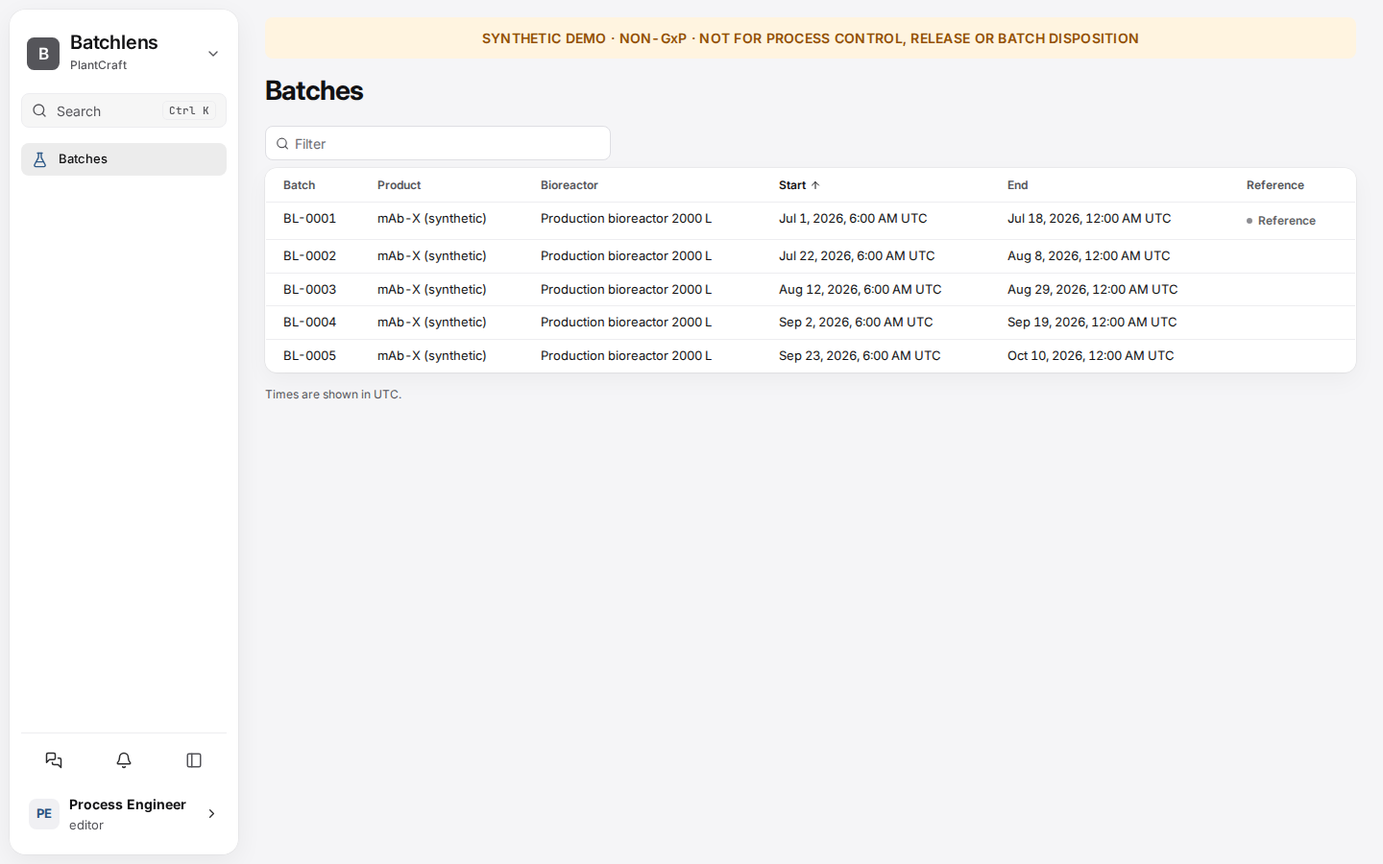
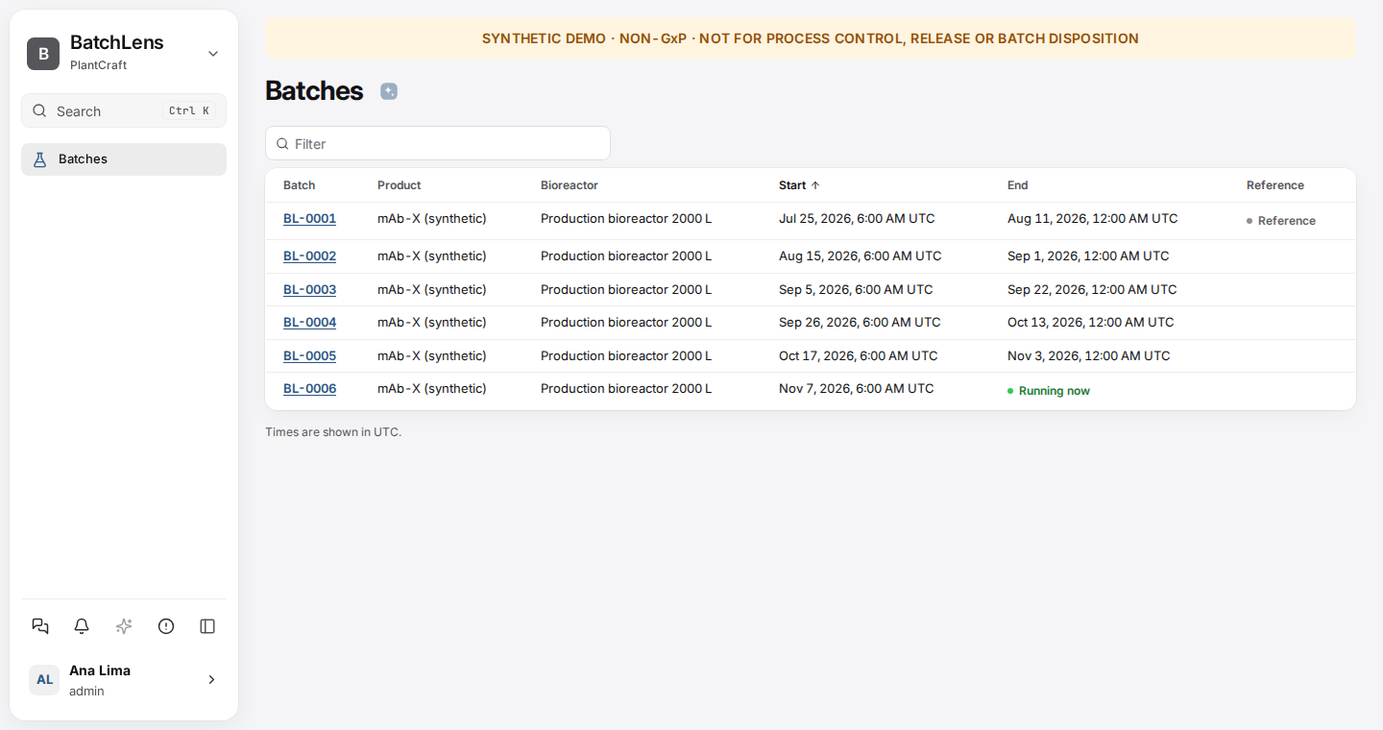
batchlens: bring the documents up to date for publication
The documents described five finished batches and an app on its own;
the demo is now a live plant inside the suite. The status page loses
its working notes, the roadmap takes the next tasks, and the gaps say
what the suite's modules do not show yet.

diff --git a/docs/demo.md b/docs/demo.md
@@ -1,9 +1,18 @@
 # The demo
 
-Five synthetic batches of `mAb-X (synthetic)`, run one after another on the same 2,000 L
-bioreactor, each followed by harvest and one aggregated Protein A capture step. Everything is
-made by `src/batchlens/demo/generator.py` from fixed seeds: the same output on every run and
-machine. **All of it is illustrative** ([scientific-assumptions.md](scientific-assumptions.md)).
+Six batches of `mAb-X (synthetic)`, run one after another on the same 2,000 L bioreactor. Five
+are finished, each followed by harvest and the purification train; the sixth is running when
+the demo starts. Everything is made by `src/batchlens/demo/generator.py` from fixed seeds: the
+same values on every run and machine. **All of it is illustrative**
+([scientific-assumptions.md](scientific-assumptions.md)).
+
+**Two campaigns, one set of values.** The tests, the benchmark and the tables below use the
+fixed campaign: five batches from 2026-07-01, three weeks apart. `tools/run_demo.sh` uses the
+live campaign: the same five moved in time by whole days so they end before a sixth,
+`BL-0006`, whose culture began nine days before the day the demo first starts. Moving a batch
+changes none of its values, so every number below holds in the demo; only the dates differ.
+The dates are set on the first start and kept, so a demo left running moves on through the
+live batch; `--reset` sets them again from today.
 
 ## Run it
 
@@ -24,7 +33,8 @@ tools/run_demo.sh             # add --reset for a fresh PlantCraft workspace
 ```
 
 It starts PlantCraft's local demo, BatchLens and the suite's modules that are installed, loads
-the five batches, writes the synthetic plant and imports it into PlantCraft. Open
+the batches, writes the synthetic plant and imports it into PlantCraft, and gives the modules
+something of the plant to show (`tools/seed_suite.py`). Open
 http://127.0.0.1:8088 (no password in the local demo), then BatchLens or a module from the app
 switcher at the top left. Ctrl+C stops everything.
 
@@ -66,9 +76,9 @@ batchlens benchmark --out docs/verification-report.md
 
 ## A five-minute tour
 
-1. **The list.** Five batches, one bioreactor, one after another. `BL-0001` carries the
-   reference mark: the batch the others are compared with. The banner on every page says what
-   this data is.
+1. **The list.** Six batches, one bioreactor, one after another. `BL-0001` carries the
+   reference mark: the batch the others are compared with. `BL-0006` is marked as running. The
+   banner on every page says what this data is.
 2. **`BL-0003`, a culture that fell behind.** Findings: the titer left the reference at
    culture day 7.9, with the sample that showed it, how far below, and that all six later
    samples stayed below. Then what that amounts to: 7,317 g at harvest against 10,170 g. Then
@@ -101,8 +111,21 @@ batchlens benchmark --out docs/verification-report.md
    the original time stays in the list of corrections, and PlantCraft's audit log has the
    change. The hole in the historian is still a hole. (`batchlens seed-demo --reset` puts
    the demo back.)
-8. **How often is it wrong?** [verification-report.md](verification-report.md): the same
-   findings over 380 seeded batches with known faults.
+8. **A batch that is running.** `BL-0006` is in its production culture. The process train
+   shows one step under way and seven not started. The titer finding is already there (it left
+   the reference at culture day 8.0), with the latest sample named as not yet reported, and
+   the consequence at harvest says it cannot be compared yet. Nothing dated later than now is
+   shown: come back in a day and there is one more sample.
+9. **The same plant in the suite's modules.** From the app switcher: in **View**, the
+   dashboard "Bioreactor BR-2001" (the four signals, moving) and the process display "mAb
+   process train" (the train in order, the bioreactor's current values); in **Alarms**, four
+   rules on the bioreactor with illustrative limits; in **Documents**, the verification
+   report, the assumptions and this page, linked to the unit. Historian, Analytics and Models
+   run and hold nothing of this plant yet ([gaps.md](gaps.md)).
+10. **How often is it wrong?** [verification-report.md](verification-report.md): the same
+    findings over 380 seeded batches with known faults.
+
+![The bioreactor's dashboard in PlantCraft View](images/suite/dashboard.png)
 
 ## Inside a live PlantCraft, by hand
 
@@ -151,7 +174,7 @@ API v1; only `tools/run_demo.sh` calls them, never the app.
 | `CH-3001` | Protein A chromatography skid | None |
 | `VI-3101`, `CH-3201`, `CH-3301`, `VF-3401`, `UF-3501` | Viral inactivation vessel, cation- and anion-exchange skids, viral filtration skid, UF/DF skid | None |
 
-The same four signals carry all five batches, so every read is scoped to a phase execution's
+The same four signals carry every batch, so every read is scoped to a phase execution's
 asset and time window. `src/batchlens/demo/plant.py` defines this plant once: the files
 above and the tests' fake PlantCraft are both made from it.
 
@@ -168,6 +191,7 @@ nothing about it.
 | `BL-0003` | 103 | 2026-08-12 06:00 | Reduced culture productivity | qP is multiplied by 0.55 from day 7; glucose +0.8 g/L and lactate rising 0.25 g/L per day from then |
 | `BL-0004` | 104 | 2026-09-02 06:00 | Reduced Protein A recovery | Normal culture; recovery 0.74 instead of 0.92 |
 | `BL-0005` | 105 | 2026-09-23 06:00 | Data problem | A normal culture, recorded badly: sample 9's collection time was keyed in as sample 8's, and the historian kept nothing from culture day 13.4 to the end of the phase |
+| `BL-0006` | 106 | live campaign only: nine days before the first start, 06:00 | Reduced culture productivity, running | qP is multiplied by 0.6 from day 7; generated whole like the others, and shown only up to now |
 
 ## What the app computes for them
 

diff --git a/ROADMAP.md b/ROADMAP.md
@@ -7,28 +7,35 @@ Done is what the tests and `docs/devlog.md` show. Everything under "Next" is a p
 | Item | State |
 |---|---|
 | Pure calculations with one result shape, statuses and reasons | Done, oracle-tested |
-| Seeded generator: five batches on one bioreactor (one of them badly recorded), ground truth kept apart | Done, tested |
+| Seeded generator: five finished batches on one bioreactor (one of them badly recorded), ground truth kept apart | Done, tested |
 | Batches in the app's store, `batchlens seed-demo` | Done, tested |
 | Read API with `as_of` (no look-ahead) | Done, tested against the fake PlantCraft |
 | Batch list and batch detail pages, English and Brazilian Portuguese | Done, Vitest and browser journeys |
-| The synthetic plant as files a live PlantCraft imports (`batchlens demo-plant`) | Done, verified on PlantCraft 0.6.0 under `make dev` |
+| The synthetic plant as files a live PlantCraft imports (`batchlens demo-plant`) | Done, verified on PlantCraft 0.6.0's local demo |
 | First evidence-linked finding: where the titer left the reference, and the harvest mass difference | Done, oracle-tested, on the batch page |
 | Findings for both step recoveries, evidence beside a divergence, reference overlay on VCD and titer | Done, tested, on the batch page |
 | A fifth, badly recorded demo batch that is flagged rather than answered | Done, tested |
-| Benchmark over 320 seeded batches and the verification report | Done; a test keeps the report current |
+| Benchmark over seeded batches and the verification report | Done; a test keeps the report current |
 | One-command demo, image and lock built, documents for publication | Done |
 | An as-of slider on the batch page | Done, Vitest and a browser journey |
 | Editing with audit: a sample's collection time, the reference batch | Done, tested, a browser journey |
 | The rest of downstream: step yields to drug substance, pool genealogy with a merge balance | Done, oracle-tested, on the batch page |
 | Read-only tools for PlantCraft's assistant over the verified calculations | Done, tested; called through a live PlantCraft, not yet by a model |
 | A finding for each later purification step; benchmark over 380 batches | Done, tested; the report is regenerated by a test |
+| A drawing of the process train on the batch page | Done, Vitest; seen in a browser |
+| A live campaign: a sixth batch running now, the bioreactor's file written up to now, nothing later than now shown | Done, tested; seen in PlantCraft 0.6.0 |
+| The suite's modules in the demo at one address; a dashboard and a process display in View, rules in Alarms, documents in Documents | Done by script; seen in a browser, no automated test |
 
 ## Next, in the intended order (proposed)
 
-1. A fuller genealogy: splits, repeated cycles and material carried between batches, with a
-   mass balance at each; a tolerance per step in place of one for all.
-2. An evaluation of the assistant with the tools: does a model use them, and does it keep to
-   "no cause is attributed"; cross-batch process monitoring.
+1. The bioreactor's history in PlantCraft Historian, monitors in PlantCraft Analytics, and
+   links from a batch into the modules (its trend window in View, its alarms).
+2. A tolerance per purification step in place of one for all.
+3. A fuller genealogy: splits, repeated cycles and material carried between batches, with a
+   mass balance at each.
+4. An evaluation of the assistant with the tools: does a model use them, and does it keep to
+   "no cause is attributed".
+5. A set of comparable batches in place of one reference batch; cross-batch monitoring.
 
 Out of scope until decided otherwise: real PI, LIMS, MES or QMS links; drug product; anything
 that claims GMP, validation or mechanistic model validity.

diff --git a/README.md b/README.md
@@ -28,7 +28,8 @@ The purification train of the batch with the poor capture step, and its pool gen
 
 ## What it shows
 
-Five synthetic batches on one 2,000 L bioreactor, each followed by harvest and Protein A capture:
+Six batches on one 2,000 L bioreactor. Five are finished, each followed by harvest and the
+purification train; the sixth is running now:
 
 | Batch | What happened | What the app says |
 |---|---|---|
@@ -37,9 +38,23 @@ Five synthetic batches on one 2,000 L bioreactor, each followed by harvest and P
 | `BL-0003` | Specific productivity fell from day 7 | Titer left the reference at culture day 7.9; 7,317 g against 10,170 g at harvest |
 | `BL-0004` | Normal culture, poor Protein A step | Recovery 20 points below the reference; 7,410 g against 9,230 g in the eluate |
 | `BL-0005` | Normal culture, **bad records** | Culture metrics `invalid`, harvest mass `insufficient`, each naming the record it tripped on |
+| `BL-0006` | **Running now**, nine days into its culture when the demo starts; productivity fell from day 7 | Titer left the reference at culture day 8.0; nothing about harvest yet, because it has not happened |
 
 The left column is the generator's ground truth. The app never sees it: it lives in the
 generator's separate output, the tests, the benchmark and the documents.
+
+## Inside the PlantCraft suite
+
+BatchLens is an app for [PlantCraft](https://github.com/PlantCraft/PlantCraft), an open
+industrial data suite, and the demo runs it beside the suite's own modules on one synthetic
+plant. The bioreactor's signals are live: the same values BatchLens reads for the running
+batch are on a dashboard and a process display in PlantCraft View, under alarm rules in
+PlantCraft Alarms, and the reports of this repository are in PlantCraft Documents, linked to
+the plant's assets.
+
+![The train in PlantCraft View, with the bioreactor's current values](docs/images/suite/process-display.png)
+
+![The running batch in BatchLens](docs/images/suite/live-batch.png)
 
 ## What makes it more than a dashboard
 
@@ -72,11 +87,11 @@ generator's separate output, the tests, the benchmark and the documents.
 uv venv --seed --python 3.12 ~/.venvs/batchlens
 export PATH="$HOME/.venvs/batchlens/bin:$PATH"
 make ci                    # app standard, translations, lint, interface build and tests, pytest
-tools/run_demo.sh          # PlantCraft, BatchLens and the synthetic plant, locally
+tools/run_demo.sh          # PlantCraft, its modules, BatchLens and the plant, at http://127.0.0.1:8088
 ```
 
 `tools/run_demo.sh` needs a PlantCraft checkout beside this folder; [docs/demo.md](docs/demo.md)
-has the one-time setup, a five-minute tour to follow, and what each batch contains. `make ci`
+has the one-time setup, a tour to follow, and what each batch contains. `make ci`
 alone needs no PlantCraft: the tests run against the SDK's fake.
 
 ## What it is, and is not
@@ -120,6 +135,7 @@ alone needs no PlantCraft: the tests run against the SDK's fake.
 | `src/batchlens/benchmark/` | The findings scored against the generator's ground truth |
 | `src/batchlens/api/` | The read routes, and what they read from PlantCraft (`plant.py`) |
 | `frontend/src/` | The two pages, on `@plantcraft/ui`, in English and Brazilian Portuguese |
+| `tools/` | The one-command demo, its gateway, and the seeding of the suite's modules |
 | `tests/` | pytest against the SDK's fake PlantCraft; `tests/e2e/` browser journeys |
 
 ## License

diff --git a/docs/gaps.md b/docs/gaps.md
@@ -51,4 +51,10 @@ Known gaps, with the date they were found.
 | 2026-11-16 | One tolerance (10 points) serves every step, although a viral filtration at 98 % and a cation exchange at 90 % do not vary alike. A step at 92 % of its nominal yield is found in 12 % of comparisons. | Open, owner to decide |
 | 2026-11-16 | At the default tolerance 3 of 604 titer detections in the benchmark name a sample up to 0.1 day before the day the change truly began (assay noise at the sample just before it). | Open, stated in the assumptions |
 | 2026-11-16 | PlantCraft 0.6.0's launcher (`run_opcua_demo.py --app id=http://127.0.0.1:port/prefix/`) lists an app at another origin, and the app switcher then fails on a click (`pushState` to another origin). The demo lists every app at its prefix and serves them all at one address with `tools/gateway.py`, a small proxy that carries one request per connection. Belongs upstream. | Worked around |
-| 2026-11-16 | The suite's six modules start in the demo and open from the switcher, and hold nothing about the mAb plant yet: no Historian signal, dashboard, alarm rule, document, monitor or model. Models logs that its two examples "could not be queued" at start. | Open |
+| 2026-11-16 | Of the suite's six modules, View, Alarms and Documents are given the mAb plant by `tools/seed_suite.py` (a dashboard, a process display, four rules, three documents). Historian, Analytics and Models run and hold nothing of it: the bioreactor's history is in PlantCraft's own CSV source, not in Historian. Models logs that its two examples "could not be queued" at start; not looked into. | Open |
+| 2026-11-16 | `tools/seed_suite.py` calls the modules' own interface routes (dashboards, diagrams, rules, documents), which are not PlantCraft's API v1, as the demo's signed-in person. Tried on the modules of PlantCraft 0.6.0 only; it has no automated test. | Open, stated in the script |
+| 2026-11-16 | The live batch is generated whole and stored whole: its later records are in the app's database dated ahead of the clock, and every route cuts a running batch at now. A real batch's records would arrive as they are made. The cut is tested; a path that reads the store without it would show the future. | Open, by design of the demo |
+| 2026-11-16 | The live bioreactor is a CSV file written again every minute with a value every 10 minutes: PlantCraft reads it on request, nothing is pushed, and the newest value can be up to 10 minutes old. The alarm rules' limits are illustrative and the demo's signals never cross them. | Open |
+| 2026-11-16 | A running batch can show a titer finding that rests on one sample below the reference, with no later sample reported yet. The page says so; the rule does not wait for a second sample. | Open, owner to decide |
+| 2026-11-16 | `tools/run_demo.sh --reset` deletes what the suite's modules stored under the PlantCraft checkout's `var/` (dashboards, rules, documents made in the demo). | By design, stated in the script |
+| 2026-11-16 | The screenshots in `docs/images/findings/` and `batch.png` were taken before the process train, the app's present name in the sidebar and the live batch. Those in `docs/images/suite/` are current. | Open |

diff --git a/docs/STATUS.md b/docs/STATUS.md
@@ -1,26 +1,17 @@
 # STATUS: BatchLens
 
-Where the app stands, for people and agents picking up work here. Updated 2026-11-15.
+Where the app stands, for people and agents picking up work here. Updated 2026-11-16.
 
-- **How work lands:** one branch and pull request per item from `main`; the agent merges it
-  itself once GitHub CI passes (owner's instruction of 2026-11-16).
-- **Done:** the first slice (calculations, generator, store, read API, two pages); the demo
-  inside a live PlantCraft (`tools/run_demo.sh`); three findings per compared batch with
-  evidence and a reference overlay; a fifth, badly recorded batch that is flagged, not
-  answered; the benchmark and `docs/verification-report.md`; `make lock` and `make image`; the
-  documents cleaned up for publication, with a tour and two case studies; an as-of slider on the batch page; editing with audit (a sample's
-  collection time, the reference batch); the rest of the purification train with a pool
-  genealogy; two read-only tools for PlantCraft's assistant; a finding for every purification
-  step; a second independent review with its eight fixes. Counts in
-  `docs/devlog.md`.
-- **Waiting for the owner:** making the repository public. It exposes the commit author's
-  email address in the history, so that step is the owner's.
-- **Next tasks, in order:** (1) a tolerance per purification step, chosen with the owner (one
-  value serves all today); (2) a fuller genealogy (splits, repeated cycles); (3) an evaluation
-  of the assistant with the tools, which needs a language model set up in PlantCraft; (4) a
-  set of comparable batches in place of one reference batch.
+- **Done:** the calculations, the generator, the store, the read API with `as_of`, and two
+  pages; findings against a reference batch for the titer and every purification step, with
+  evidence and no cause; a badly recorded batch that is flagged, not answered; the benchmark
+  and `docs/verification-report.md`; editing with audit; the purification train with a pool
+  genealogy; two read-only tools for PlantCraft's assistant; a live campaign with a batch
+  running now; the demo inside PlantCraft with the suite's modules at one address, three of
+  them showing the same plant. `ROADMAP.md` has the list with how each item was checked.
+- **Next:** `ROADMAP.md`, "Next".
 - **Blockers:** none. Known gaps: `docs/gaps.md`.
-- **Careful:** `var/` at the root is the app's default data folder and also holds the owner's
-  private file. Never write there; set `BATCHLENS_DATA_DIR`.
+- **How work lands:** a branch and a pull request per item; `make ci` green before every
+  commit; merged once GitHub CI passes.
 
-Keep the history in `docs/devlog.md`.
+The history is in `docs/devlog.md`.

diff --git a/docs/devlog.md b/docs/devlog.md
@@ -3,6 +3,34 @@
 Notes on how the module changed and why, newest first: what a later contributor would need to
 know that the code and `CHANGELOG.md` do not say. One short entry per change worth explaining.
 
+## 2026-11-16: A live plant inside the suite, and the documents reviewed for publication
+
+The owner asked for the suite's modules in the mAb demo, chose a live plant over fixed past
+dates, and asked for the documents to be reviewed before the repository goes public.
+
+- **Built:** `demo_campaign(live_from)` moves the five batches in time and adds `BL-0006`,
+  running (`tests/test_live.py`: moving a batch changes no value). `api.deps.horizon` cuts a
+  running batch at now on every route. `batchlens seed-demo --live`, `demo-plant --live-from`.
+  `tools/gateway.py` serves PlantCraft and every app at one address; `tools/seed_suite.py`
+  gives View, Alarms and Documents the plant. A drawing of the process train on the batch
+  page.
+- **Ruling:** the live batch is stored whole and cut at read time, not fed in record by
+  record. It reuses the as-of logic every route already had and its tests; storing only the
+  past would have needed phases without an end throughout the store and the calculations.
+  Cost if wrong: a route that forgets the cut shows the future (`docs/gaps.md`).
+- **Ruling:** the fixed campaign stays what the tests, the benchmark and the tables use.
+- **Found:** PlantCraft 0.6.0's app switcher cannot open an app listed at another origin, so
+  its own launcher's `--app` does not work from the switcher; View's and Alarms' starters
+  look for control loops and make nothing for a plant without them.
+- **Seen in a browser (PlantCraft 0.6.0, fresh workspace):** `BL-0006` running with its titer
+  finding and trends up to the last half hour; View's dashboard and process display with
+  current values (`docs/images/suite/`).
+- **Documents:** `docs/STATUS.md` cut to a few lines (the next tasks are in `ROADMAP.md`; the
+  app standard requires the file); README, demo, roadmap, gaps and structure brought up to
+  date.
+- **Not done:** Historian, Analytics and Models hold nothing of the plant; older screenshots
+  not retaken.
+
 ## 2026-11-16: The app is named BatchLens
 
 The name `make rename` gave the app is gone from everything but the older entries below, which

diff --git a/AGENTS.md b/AGENTS.md
@@ -19,8 +19,8 @@ https://github.com/PlantCraft/plantcraft-app-template.
 
 ## Start here
 
-1. Read `README.md`, `docs/README.md` (what each document is) and `docs/STATUS.md` (the next
-   task).
+1. Read `README.md`, `docs/README.md` (what each document is) and `ROADMAP.md` (what is
+   proposed next).
 2. `make test-fast` while working, `make ci` before every commit, `make e2e` when you touched a
    page a person uses.
 3. Commit messages start with the app id (`batchlens: ...`); add an entry to `docs/devlog.md`
@@ -166,8 +166,10 @@ decisions, reproducible results and honest reporting matter more than breadth.
   is made with `uv venv --seed --python 3.12 ~/.venvs/batchlens`, outside the tree (a `.venv`
   inside it gets swept up by tests that walk the folder; `docs/gaps.md`); install by hand with
   `uv pip`, never bare `pip`.
-- Start of a session: `git status`, then `docs/STATUS.md`, `docs/gaps.md` and the last devlog
+- Start of a session: `git status`, then `ROADMAP.md`, `docs/gaps.md` and the last devlog
   entries. Take one small task with a stated acceptance test.
+- `var/` at the root is the app's default data folder and is not tracked. Never write there
+  while developing; set `BATCHLENS_DATA_DIR`.
 - Type hints on public functions, the `logging` module rather than `print`, `ruff` clean.
 - Done means: tests written first and passing, bad and missing data handled, `make ci` green,
   `make e2e` green when a page changed, and the documents say what is now true.

diff --git a/docs/structure.md b/docs/structure.md
@@ -11,7 +11,8 @@ tests/                pytest against a fake PlantCraft; tests/e2e: browser journ
 docs/                 the project's documents (docs/README.md) and the help pages (docs/help)
 vendor/               the plantcraft-sdk wheel and the @plantcraft/ui package, with their hashes
 deploy/               requirements.in and requirements.lock: the image's pinned dependencies
-tools/                run_demo.sh (the whole demo locally); rename.py (the template's)
+tools/                run_demo.sh (the whole demo locally); gateway.py (one address for it);
+                      seed_suite.py (the mAb plant in the suite's modules); rename.py (the template's)
 .github/workflows/    ci.yml: make ci on every push and pull request
 AGENTS.md, CLAUDE.md  the rules, for people and for coding agents
 SPEC.md, ROADMAP.md   what the app does and its public sources; what comes next
@@ -76,6 +77,7 @@ in the interface, a router or a store.
 | `DemoBanner.tsx` | The synthetic, non-GxP banner shown on every page |
 | `BatchesPage.tsx` | The batch list |
 | `BatchPage.tsx` | One batch: phases, metrics, pools, trends, assay results |
+| `ProcessTrain.tsx` | The process train as a drawing, a symbol per step, with each step's state |
 | `words.ts` | Words for metric, phase and analyte ids, statuses and reason codes |
 | `format.ts` | Rounding for display only |
 | `when.tsx` | Times in the installation's zone, and the line that names it |

diff --git a/docs/README.md b/docs/README.md
@@ -10,11 +10,11 @@
 | [structure.md](structure.md) | Every package and file, and the layers the code keeps |
 | [gaps.md](gaps.md) | What is known to be missing, wrong or untested |
 | [devlog.md](devlog.md) | The development trail, newest first: plans, rulings, failures, measured check results |
-| [STATUS.md](STATUS.md) | Where the project stands and the next task |
+| [STATUS.md](STATUS.md) | Where the project stands, in a few lines |
 | [help/](help/batchlens.md) | The help page people read inside the app (English and Brazilian Portuguese) |
 
 At the root: [`README.md`](../README.md), [`SPEC.md`](../SPEC.md) (what the app does and its
-public sources), [`ROADMAP.md`](../ROADMAP.md), [`AGENTS.md`](../AGENTS.md) (the rules for
+public sources), [`ROADMAP.md`](../ROADMAP.md) (what is done and what is proposed next), [`AGENTS.md`](../AGENTS.md) (the rules for
 people and coding agents), [`ATTRIBUTION.md`](../ATTRIBUTION.md).
 
 BatchLens is built on PlantCraft's app template. The template's own how-to guides (server,

diff --git a/CHANGELOG.md b/CHANGELOG.md
@@ -7,6 +7,11 @@ All notable changes to this app are recorded here ([Keep a Changelog](https://ke
 BatchLens, first vertical slice (2026-11-15), built from the PlantCraft app template 0.2.0
 (`dc365ec`); the entries below this one are the template's own history.
 
+- A live demo inside the suite: a sixth batch running now (`seed-demo --live`), the
+  bioreactor's file written up to now, every route cut at now for a running batch; the suite's
+  modules started by `tools/run_demo.sh` at one address (`tools/gateway.py`) and given the
+  plant (`tools/seed_suite.py`); a drawing of the process train on the batch page. The app is
+  named BatchLens (manifest `BatchLensCraft`).
 - The template's example object is replaced by batches: batch, phase executions, samples,
   assay results and pool measurements in the app's database, loaded by `batchlens seed-demo`.
 - Pure calculations with one result shape (value, unit, status, reasons, inputs, version):

diff --git a/CLAUDE.md b/CLAUDE.md
@@ -1,5 +1,5 @@
 Read and follow AGENTS.md. It is the single source of rules for every agent in this repository.
 
 Quick reference: `make ci` before every commit; `tools/run_demo.sh` runs the whole demo inside a
-local PlantCraft with the suite's modules (everything at :8088); tests run against `FakePlantCraft`. The next task
-is in `docs/STATUS.md`.
+local PlantCraft with the suite's modules (everything at :8088); tests run against `FakePlantCraft`. What is
+proposed next is in `ROADMAP.md`; known gaps are in `docs/gaps.md`.
